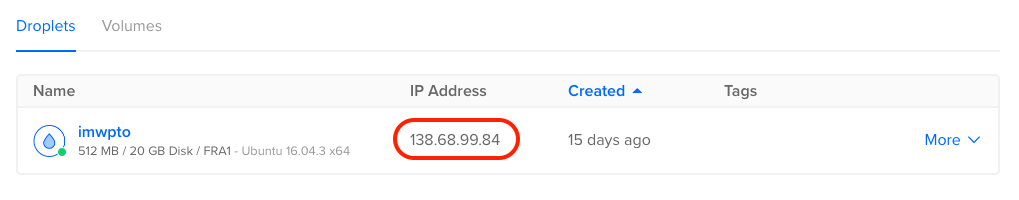
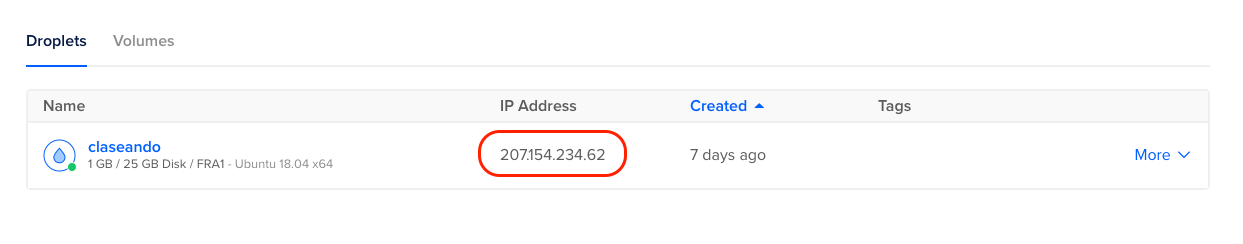
Update contents

diff --git a/imw/UT0/notes/prod/README.md b/imw/UT0/notes/prod/README.md
@@ -6,17 +6,15 @@ Vamos a intentar tener una máquina en producción a través de los servicios of
 
 Dado que todos salimos a internet por la *misma IP pública*, es posible que seamos *baneados* por los servicios que vamos a utilizar, ya que hay demasiados accesos simultáneos, y se podría pensar que somos *robots*. Para solucionar esto, vamos a hacer uso de **VPN**, que crea un túnel para que podamos salir por *otra IP pública*.
 
-Existen múltiples sitios para túneles VPN. Una posibilidad es `TunnelBear`. Instrucciones:
+![TunnelBear](img/tunnel_bear.png)
 
-- [Registro en el servicio TunnelBear](https://www.tunnelbear.com/account#/signup) 
-- [TunnelBear para Linux](https://www.tunnelbear.com/blog/linux_support/) 
-- [TunnelBear para Mac](https://www.tunnelbear.com/apps/mac) 
-- [TunnelBear para Windows](https://www.tunnelbear.com/apps/windows) 
-- [TunnelBear para Chrome](https://www.tunnelbear.com/apps/browser) 
+Existen múltiples servicios para túneles VPN. Una posibilidad es `TunnelBear`. En primer lugar debemos realizar el [registro en el servicio TunnelBear](https://www.tunnelbear.com/account#/signup) y a continuación instalar la extensión en nuestro navegador:
+- [Extensión de TunnelBear para **Firefox**](https://addons.mozilla.org/en-US/firefox/addon/tunnelbear-vpn-firefox/)
+-  [Extensión de TunnelBear para **Chrome**](https://chrome.google.com/webstore/detail/tunnelbear-vpn/omdakjcmkglenbhjadbccaookpfjihpa).
 
 ## Cuenta de correo del centro
 
-En primer lugar necesitamos tener una cuenta de correo del IES Puerto de la Cruz - Telesforo Bravo. Han sido creadas cuentas para todo el alumnado de esta asignatura, en la forma:
+Necesitamos tener una **cuenta de correo del IES Puerto de la Cruz - Telesforo Bravo**. Han sido creadas cuentas para todo el alumnado de esta asignatura, en la forma:
 
 > `aluXXXX@iespuertodelacruz.es`  
 
@@ -33,7 +31,7 @@ En la bandeja de entrada tendremos dos correos, que, en principio, podremos igno
 
 ## Cuenta en GitHub
 
-`GitHub` es una plataforma de desarrollo colaborativo para alojar proyectos utilizando el sistema de control de versiones *Git*. [GitHub tiene actualmente cerca de 20 millones de repositorios de código](https://octoverse.github.com/).
+`GitHub` es una plataforma de desarrollo colaborativo para alojar proyectos utilizando el sistema de control de versiones *Git*. [GitHub tiene actualmente mas de 67 millones de repositorios de código](https://octoverse.github.com/).
 
 ![GitHub](img/github-octocat.png) 
 
@@ -60,7 +58,7 @@ Rellenar el formulario teniendo en cuenta lo siguiente:
 - **Name**: tu nombre y apellidos.
 - **school-issued email address**: tu dirección de correo del centro.
 - **School name**: IES Puerto de la Cruz - Telesforo Bravo
-- **Graduation year**: 2018
+- **Graduation year**: 2019
 - **How do you plan to use GitHub?**: I want to use GitHub for my lessons at the school, and, of course, for my future code projects.
 
 Si todo va bien, en poco tiempo recibiremos un correo confirmando la aprobación del `Student Developer Pack`.
@@ -81,12 +79,12 @@ Una vez que completemos el registro, debemos acceder a la [configuración de pag
 
 Tendremos que crear un **droplet** (*máquina virtual*) con las siguientes características:
 
-- Ubuntu 16.04.3 x64.
+- **Ubuntu 18.04 x64**.
 - 5$/mo
-- 512MB
-- 1 CPU
-- 20GB SSD disk
-- 1000GB transfer
+- 1 GB
+- 1 vCPU
+- 25 GB SSD disk
+- 1 TB transfer
 - Datacenter region: Frankfurt
 - Hostname: `cloud`
 
@@ -96,19 +94,19 @@ Cuando hayamos terminado este proceso, tendremos una máquina disponible con una
 
 Podemos comprobarlo haciendo un ping a la IP que nos hayan asignado en el droplet:
 
-```console
-sdelquin@imw:~$ ping -c4 138.68.99.84
-PING 138.68.99.84 (138.68.99.84) 56(84) bytes of data.
-64 bytes from 138.68.99.84: icmp_seq=1 ttl=54 time=60.9 ms
-64 bytes from 138.68.99.84: icmp_seq=2 ttl=54 time=60.7 ms
-64 bytes from 138.68.99.84: icmp_seq=3 ttl=54 time=60.7 ms
-64 bytes from 138.68.99.84: icmp_seq=4 ttl=54 time=61.0 ms
+~~~console
+sdelquin@imw:~$ ping -c4 207.154.234.62
+PING 207.154.234.62 (207.154.234.62) 56(84) bytes of data.
+64 bytes from 207.154.234.62: icmp_seq=1 ttl=52 time=65.0 ms
+64 bytes from 207.154.234.62: icmp_seq=2 ttl=52 time=63.9 ms
+64 bytes from 207.154.234.62: icmp_seq=3 ttl=52 time=66.1 ms
+64 bytes from 207.154.234.62: icmp_seq=4 ttl=52 time=68.1 ms
 
---- 138.68.99.84 ping statistics ---
+--- 207.154.234.62 ping statistics ---
 4 packets transmitted, 4 received, 0% packet loss, time 3006ms
-rtt min/avg/max/mdev = 60.724/60.888/61.071/0.286 ms
+rtt min/avg/max/mdev = 63.914/65.825/68.185/1.591 ms
 sdelquin@imw:~$
-```
+~~~
 
 ## Namecheap
 
@@ -128,9 +126,9 @@ El objetivo es crear un dominio que apunte a la máquina que hemos creado en *Di
 
 Una vez creado el dominio, debemos establecer los DNS apuntando a *Digital Ocean*. Para ello, entramos con nuestras credenciales en *Namecheap*, y accedemos a:
 
-```
+~~~
 Domain List -> Manage -> Advanced DNS
-```
+~~~
 
 Una vez ahí, establecemos los siguientes registros con la IP de la máquina de producción de *Digital Ocean*:
 
@@ -140,16 +138,16 @@ Una vez ahí, establecemos los siguientes registros con la IP de la máquina de 
 
 Es posible que la propagación de los DNS no sea inmediata, y que, por tanto, no podamos acceder al dominio creado. Podemos comprobar dónde está apuntando el dominio a través de un ping:
 
-```console
-sdelquin@imw:~$ ping -c4 imwpto.me
-PING imwpto.me (138.68.99.84) 56(84) bytes of data.
-64 bytes from cloud (138.68.99.84): icmp_seq=1 ttl=54 time=64.4 ms
-64 bytes from cloud (138.68.99.84): icmp_seq=2 ttl=54 time=60.9 ms
-64 bytes from cloud (138.68.99.84): icmp_seq=3 ttl=54 time=60.7 ms
-64 bytes from cloud (138.68.99.84): icmp_seq=4 ttl=54 time=60.6 ms
+~~~console
+sdelquin@imw:~$ ping -c4 vps.claseando.es
+PING vps.claseando.es (207.154.234.62) 56(84) bytes of data.
+64 bytes from 207.154.234.62 (207.154.234.62): icmp_seq=1 ttl=52 time=61.5 ms
+64 bytes from 207.154.234.62 (207.154.234.62): icmp_seq=2 ttl=52 time=61.6 ms
+64 bytes from 207.154.234.62 (207.154.234.62): icmp_seq=3 ttl=52 time=67.0 ms
+64 bytes from 207.154.234.62 (207.154.234.62): icmp_seq=4 ttl=52 time=61.9 ms
 
---- imwpto.me ping statistics ---
+--- vps.claseando.es ping statistics ---
 4 packets transmitted, 4 received, 0% packet loss, time 3006ms
-rtt min/avg/max/mdev = 60.660/61.693/64.411/1.591 ms
+rtt min/avg/max/mdev = 61.547/63.054/67.072/2.324 ms
 sdelquin@imw:~$
-```
+~~~
